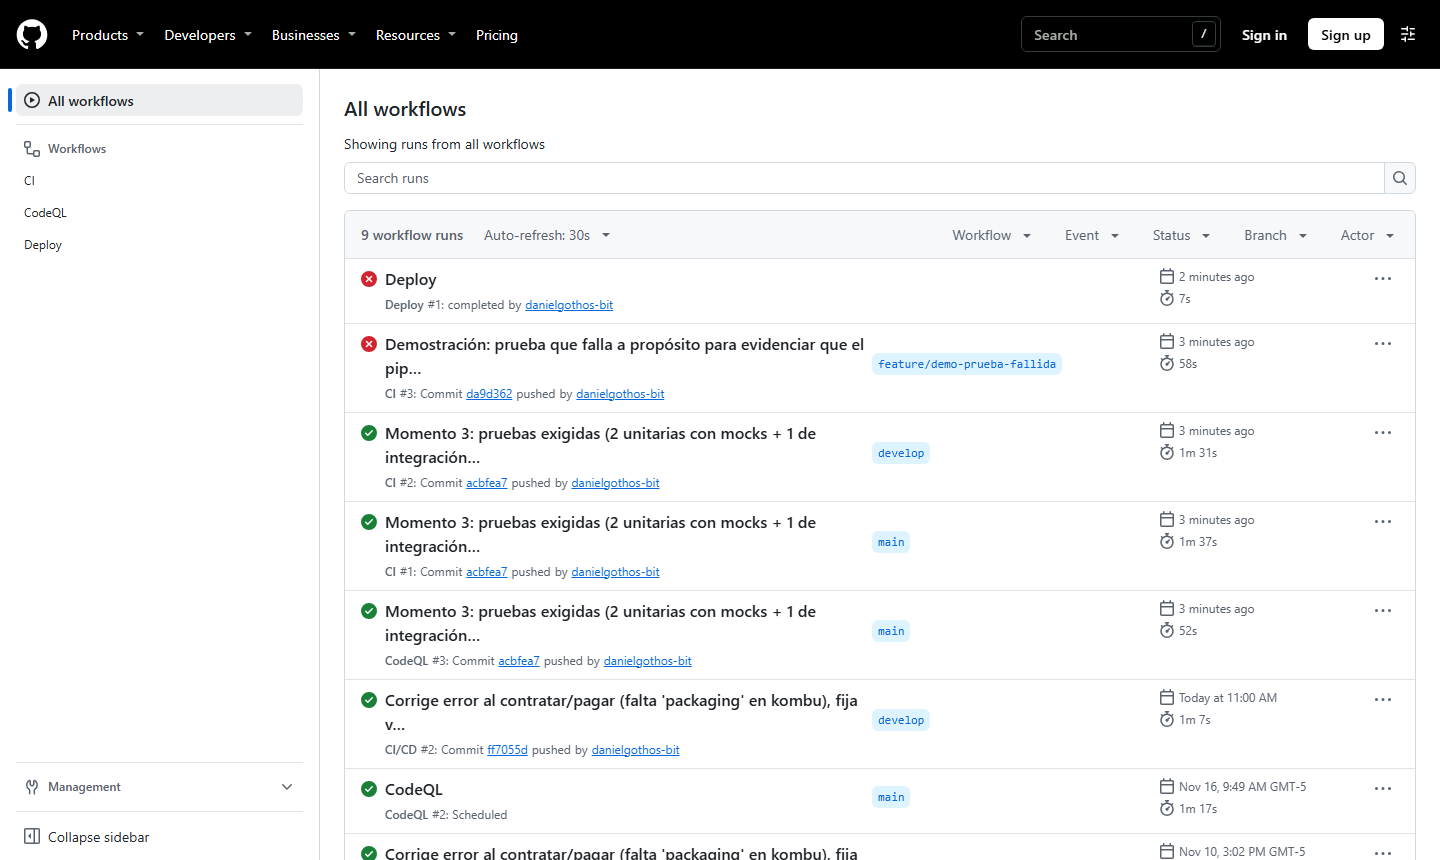
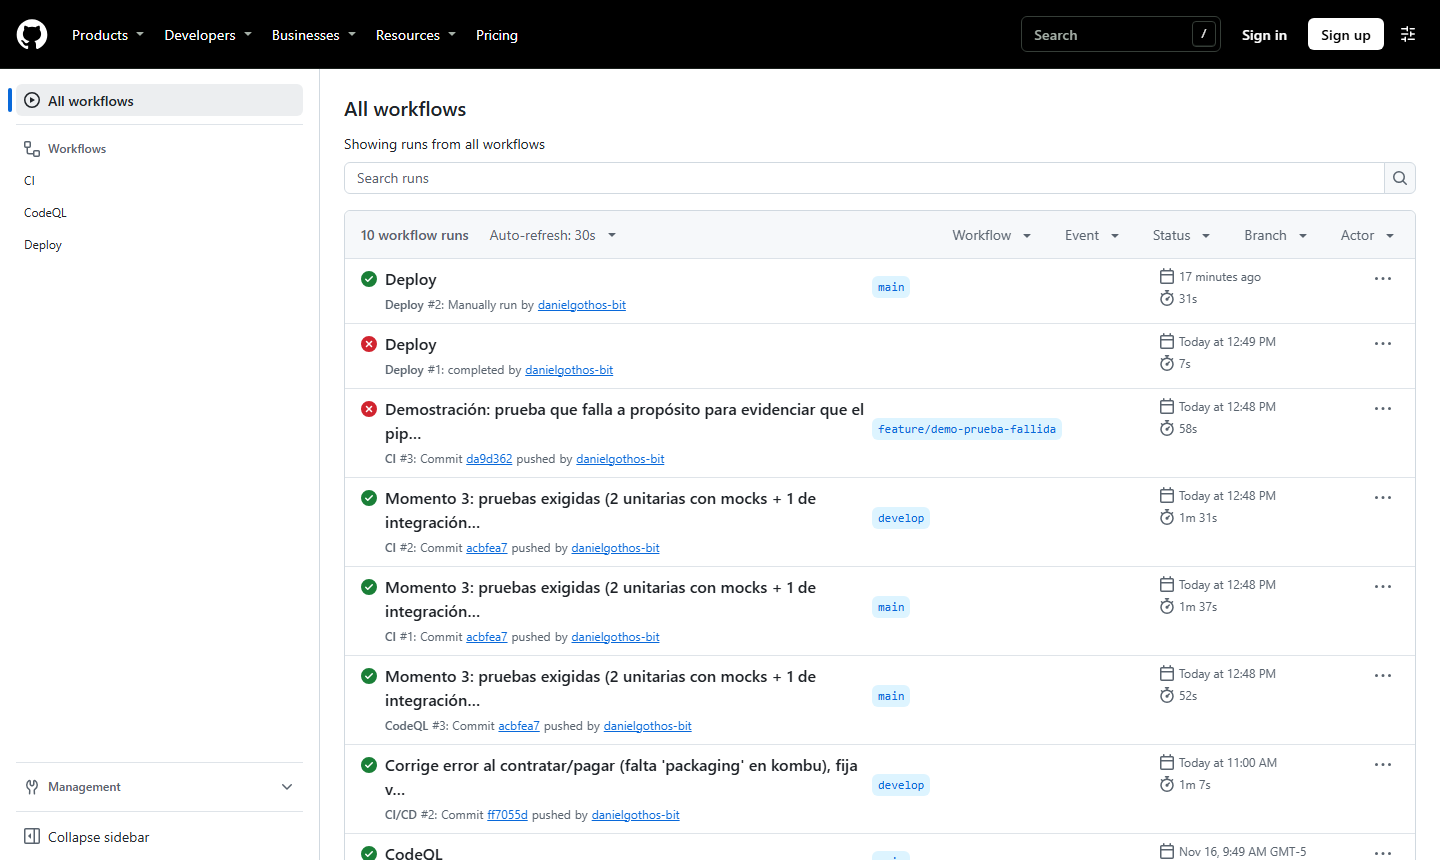
Presentación: evidencia de Actions con el despliegue automático en verde

diff --git a/public/presentacion/index.html b/public/presentacion/index.html
@@ -315,7 +315,7 @@ img.ev{width:100%;border:1px solid var(--borde);display:block;cursor:zoom-in;bac
         <div class="card" style="margin-top:12px"><h3>Estrategia de ramas (GitFlow)</h3><p><code>main</code> = producción · <code>develop</code> = integración · <code>feature/*</code> = funcionalidades · <code>hotfix/*</code> = correcciones urgentes. Los cambios entran por <b>pull request</b> con el pipeline en verde. Los secretos (Deploy Hook, tokens) viven en <b>GitHub Secrets</b>.</p></div>
       </div>
       <div class="grid">
-        <div><img class="ev" src="img/actions_lista.png" alt="Pestaña Actions con ejecuciones del pipeline"><p class="leyenda">Pestaña Actions: CI en verde en main y develop; la rama de demostración en rojo.</p></div>
+        <div><img class="ev" src="img/actions_lista.png" alt="Pestaña Actions con ejecuciones del pipeline"><p class="leyenda">Pestaña Actions: Deploy y CI en verde en main y develop; la rama de demostración (prueba fallida) en rojo.</p></div>
         <div class="grid g2">
           <div><img class="ev" src="img/ci_exitoso.png" alt="Ejecución exitosa de CI"><p class="leyenda">CI exitoso: lint → pruebas + seguridad → Docker.</p></div>
           <div><img class="ev" src="img/ci_fallido.png" alt="Ejecución fallida por una prueba"><p class="leyenda">Prueba fallida: el pipeline se detiene y <b>no se construye ni se despliega</b>.</p></div>
